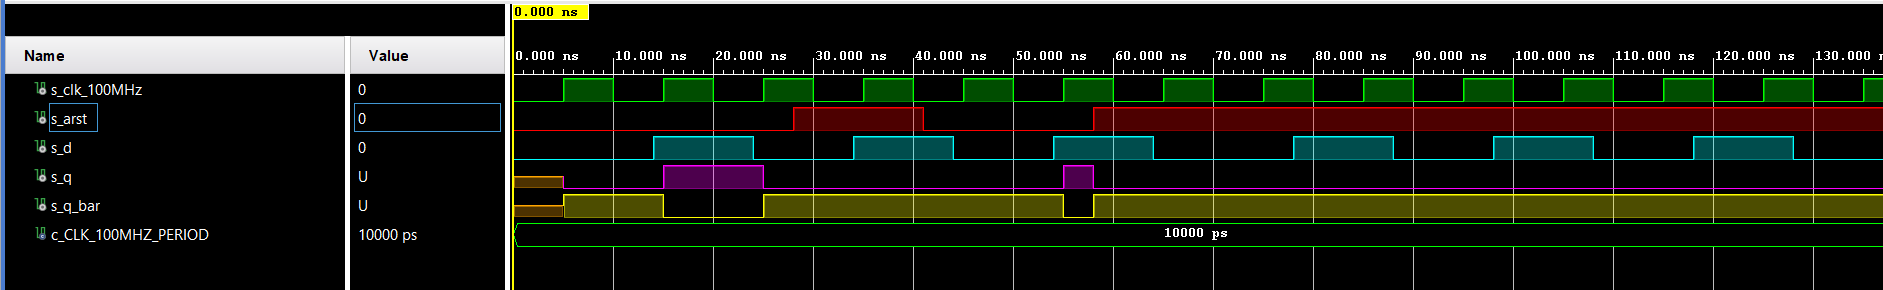
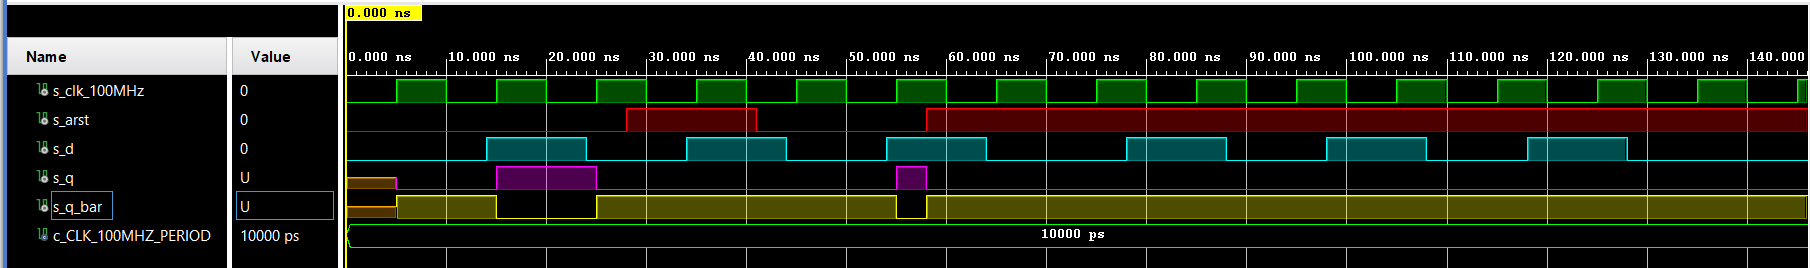
Lab7

diff --git a/07-Latches and Flip-flops/README.md b/07-Latches and Flip-flops/README.md
@@ -188,7 +188,18 @@ end process p_d_latch;
 ```
 #### p_d_ff_rst
 ```vhdl
-
+p_d_ff_rst : process (clk)
+begin
+  if rising_edge(clk) then
+            if (rst = '1') then
+                q <= '0';
+                q_bar <= '1';
+            else
+                q <= d;
+                q_bar <= not d;
+            end if;
+        end if;
+end process p_d_ff_rst;
 ```
 #### p_jk_ff_rst
 ```vhdl
@@ -310,6 +321,88 @@ p_reset_gen : process
 ```
 #### tb_d_ff_rst
 ```vhdl
+p_reset_gen : process
+        begin
+            s_rst <= '0';
+            wait for 28 ns;
+            
+            -- Reset activated
+            s_rst <= '1';
+            wait for 13 ns;
+    
+            --Reset deactivated
+            s_rst <= '0';
+            
+            wait for 17 ns;
+            
+            s_rst <= '1';
+            wait for 33 ns;
+            
+            wait for 660 ns;
+            s_rst <= '1';
+    
+            wait;
+     end process p_reset_gen;
+
+    --------------------------------------------------------------------
+    -- Data generation process
+    --------------------------------------------------------------------
+    p_stimulus : process
+    begin
+        report "Stimulus process started" severity note;
+        
+        s_d  <= '0';
+        
+        --d sekv
+        wait for 14 ns;
+        s_d  <= '1';
+        wait for 2 ns;
+        
+        assert ((s_rst = '0') and (s_q = '1') and (s_q_bar = '0'))
+        report "Test failed for reset low, after clk rising when s_d = '1'" severity error;
+        
+        wait for 8 ns;
+        s_d  <= '0';
+        wait for 6 ns;
+        
+        --assert()
+        --report "";
+        
+        wait for 4 ns;
+        s_d  <= '1';
+        wait for 10 ns;
+        s_d  <= '0';
+        wait for 10 ns;
+        s_d  <= '1';
+        wait for 5 ns;
+        
+        -- verify that reset is truly synchronous
+        assert ((s_rst = '1') and (s_q = '1') and (s_q_bar = '0'))
+        report "Test failed for reset high, before clk rising when s_d = '1'" severity error;
+        
+        wait for 5 ns;
+        s_d  <= '0';
+        --/d sekv
+        
+        --d sekv
+        wait for 14 ns;
+        s_d  <= '1';
+        wait for 10 ns;
+        s_d  <= '0';
+        wait for 10 ns;
+        s_d  <= '1';
+        wait for 10 ns;
+        s_d  <= '0';
+        wait for 10 ns;
+        s_d  <= '1';
+        wait for 10 ns;
+        s_d  <= '0';
+        --/d sekv
+        
+       
+        report "Stimulus process finished" severity note;
+        wait;
+    end process p_stimulus;
 
 ```
 #### tb_jk_ff_rst
